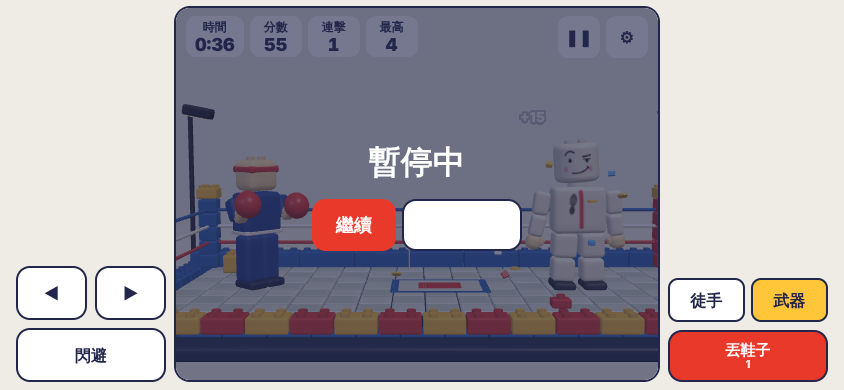
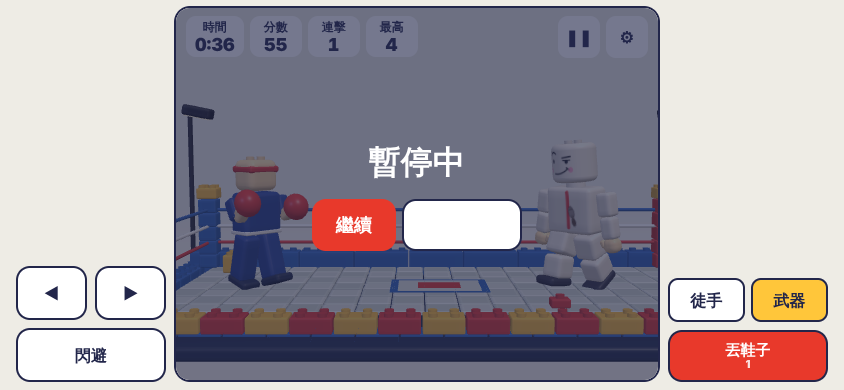
立體肚子可彩繪；對戰時面對面、前後腳站姿；按鈕不可選取文字
Claude-Session: https://claude.ai/code/session_01W9KMAiYuezKnkxaZ7ikoB8

diff --git a/src/game/puppet/Puppet.ts b/src/game/puppet/Puppet.ts
@@ -11,7 +11,7 @@ import { buildAccessory, type AccessorySlot } from './looks/accessories';
 import { DelayBuffer, spring0, stepSpring, type Spring } from './spring';
 
 const R = PUPPET.reactions;
-const CH = ['torsoZ', 'torsoX', 'headX', 'headY', 'headZ', 'shL', 'elL', 'shR', 'elR', 'hipL', 'hipR', 'knL', 'knR'] as const;
+const CH = ['torsoZ', 'torsoX', 'headX', 'headY', 'headZ', 'shL', 'elL', 'shR', 'elR', 'hipL', 'hipR', 'hipLx', 'hipRx', 'knL', 'knR'] as const;
 type Channel = (typeof CH)[number];
 type Pose = Record<Channel, number>;
 
@@ -35,6 +35,12 @@ export class Puppet {
   readonly root = new Group();
   private readonly spinPivot = new Group();
   private readonly squashG = new Group();
+  private readonly yawG = new Group();
+  private yaw = spring0();
+  private yawTarget = 0;
+  private stance = false;
+  private stanceFront: 'L' | 'R' = 'L';
+  private extraPaint: Mesh[] = [];
   readonly meshes = {} as Record<PaintPartId, Mesh>;
   readonly fixed = {} as Record<FixedPartId, Mesh>;
   private readonly joints: Record<string, Group> = {};
@@ -76,9 +82,11 @@ export class Puppet {
     off.position.y = -PUPPET.height / 2;
     this.spinPivot.add(off);
     off.add(this.squashG);
+    // 轉身面向對手（只轉身體，空翻仍在畫面平面上）
+    this.squashG.add(this.yawG);
     const pelvis = new Group();
     pelvis.position.y = SK.pelvisY;
-    this.squashG.add(pelvis);
+    this.yawG.add(pelvis);
     const studMat = plastic(PUPPET.baseColor);
 
     const part = (name: PaintPartId, parent: Object3D, y: number) => {
@@ -167,6 +175,7 @@ export class Puppet {
   private syncAccessories(paint: PaintStore) {
     this.accObjects.forEach((o) => o.removeFromParent());
     this.accObjects = [];
+    this.extraPaint = [];
     for (const slot of ['face', 'hair', 'costume'] as AccessorySlot[]) {
       const id = paint.accessories[slot];
       if (!id) continue;
@@ -178,6 +187,15 @@ export class Puppet {
         });
         target.add(a.object);
         this.accObjects.push(a.object);
+        // 可彩繪的配件（立體肚子）：換成所屬部位的材質，並列入作畫目標
+        a.object.traverse((o) => {
+          const pp = o.userData.paintPart as PaintPartId | undefined;
+          if (pp && (o as Mesh).isMesh) {
+            (o as Mesh).material = this.meshes[pp].material;
+            o.userData.part = pp;
+            this.extraPaint.push(o as Mesh);
+          }
+        });
       }
     }
   }
@@ -221,6 +239,7 @@ export class Puppet {
     this.vx = this.vy = this.lift = 0;
     this.airborne = false;
     this.spin = spring0();
+    this.yaw = spring0(this.yawTarget);
     this.sx = spring0(1);
     this.sy = spring0(1);
     for (const c of CH) this.pose[c] = spring0();
@@ -370,6 +389,7 @@ export class Puppet {
       }
     }
 
+    stepSpring(this.yaw, this.yawTarget, S.spin.k * 0.5, S.spin.d, dt);
     stepSpring(this.sx, 1, S.squash.k, S.squash.d, dt);
     stepSpring(this.sy, 1, S.squash.k, S.squash.d, dt);
     const L = PUPPET.squashLimits;
@@ -407,6 +427,8 @@ export class Puppet {
       elR: 0.05,
       hipL: -0.04,
       hipR: 0.04,
+      hipLx: 0,
+      hipRx: 0,
       knL: 0,
       knR: 0,
     };
@@ -419,6 +441,15 @@ export class Puppet {
     T.elR += lag * 0.5;
     T.hipL += lag * 0.2;
     T.hipR += lag * 0.2;
+    if (this.stance) {
+      const st = PUPPET.stance;
+      const front = this.stanceFront;
+      T[front === 'L' ? 'hipLx' : 'hipRx'] = -st.frontHip;
+      T[front === 'L' ? 'hipRx' : 'hipLx'] = st.backHip;
+      T.knL = st.knee;
+      T.knR = st.knee;
+      T.torsoX += st.lean;
+    }
     if (this.airborne) {
       T.shL = -2.2;
       T.shR = 2.2;
@@ -429,8 +460,8 @@ export class Puppet {
     }
     if (this.downT > 0) {
       T.torsoX = 0.35;
-      T.knL = -0.6;
-      T.knR = -0.6;
+      T.knL = 0.6;
+      T.knR = 0.6;
       T.headX = 0.2;
     }
     if (this.aiPose !== 'idle' && !this.airborne) {
@@ -476,8 +507,9 @@ export class Puppet {
     j.elL.rotation.z = p.elL.v;
     j.shR.rotation.z = p.shR.v;
     j.elR.rotation.z = p.elR.v;
-    j.hipL.rotation.z = p.hipL.v;
-    j.hipR.rotation.z = p.hipR.v;
+    j.hipL.rotation.set(p.hipLx.v, 0, p.hipL.v);
+    j.hipR.rotation.set(p.hipRx.v, 0, p.hipR.v);
+    this.yawG.rotation.y = this.yaw.v;
     j.knL.rotation.x = p.knL.v;
     j.knR.rotation.x = p.knR.v;
     const head = this.meshes.head;
@@ -493,7 +525,17 @@ export class Puppet {
 
   /** 所有可被點選彩繪的部位 mesh。 */
   paintTargets(): Mesh[] {
-    return Object.values(this.meshes);
+    return [...Object.values(this.meshes), ...this.extraPaint];
+  }
+
+  /**
+   * 對戰站姿：身體轉向對手（dir＝對手所在方向），一腳前一腳後。
+   * 彩繪室不開，維持正面站直方便作畫。
+   */
+  setStance(on: boolean, dir: -1 | 1 = -1) {
+    this.stance = on;
+    this.yawTarget = on ? dir * PUPPET.stance.yaw : 0;
+    this.stanceFront = dir < 0 ? 'L' : 'R';
   }
 
   setShadows(on: boolean) {

diff --git a/src/game/puppet/looks/accessories.ts b/src/game/puppet/looks/accessories.ts
@@ -3,6 +3,7 @@ import {
 } from 'three';
 import { plastic, srgb } from '../../three/color';
 import { cachedRoundedBox } from '../../three/geometry';
+import { atlasUV } from '../faces';
 import { DESIGN_SIZES, PART_DEFS, type FixedPartId, type PaintPartId } from '../parts';
 
 /**
@@ -120,9 +121,31 @@ function dome(color: string, h: number) {
   return ball(1, color, 0, HEAD.top - 0.04, -0.02, [0.64, h, 0.6]);
 }
 
-/** 立體肚子：貼在軀幹正面的扁橢圓 */
-function belly(color: string) {
-  return ball(1, color, 0, -0.05, TORSO.front - 0.04, [0.6, 0.6, 0.2]);
+/**
+ * 立體肚子：貼在軀幹正面的扁橢圓。UV 投影到軀幹正面那一格，
+ * 所以肚子會顯示、也能畫上軀幹正面的彩繪（積木人會把它換成軀幹的材質）。
+ */
+export const BELLY = { cx: 0, cy: -0.05, rx: 0.6, ry: 0.6, rz: 0.2 } as const;
+function belly() {
+  const g = geo('bellyPaint', () => {
+    const sg = new SphereGeometry(1, 32, 20);
+    const pos = sg.attributes.position;
+    const uv = sg.attributes.uv;
+    const [w, h] = DESIGN_SIZES.torso;
+    for (let i = 0; i < pos.count; i++) {
+      const x = BELLY.cx + pos.getX(i) * BELLY.rx;
+      const y = BELLY.cy + pos.getY(i) * BELLY.ry;
+      const [u, v] = atlasUV(4, x / w + 0.5, y / h + 0.5);
+      uv.setXY(i, u, v);
+    }
+    return sg;
+  });
+  const m = new Mesh(g, plastic('#FFFFFF'));
+  m.scale.set(BELLY.rx, BELLY.ry, BELLY.rz);
+  m.position.set(BELLY.cx, BELLY.cy, TORSO.front - 0.04);
+  m.castShadow = true;
+  m.userData.paintPart = 'torso';
+  return m;
 }
 
 /** 爪子／腳趾：一排小圓錐 */
@@ -245,7 +268,7 @@ const BUILDERS: Record<AccessoryId, () => Attachment[]> = {
     const tips = (sx: number) => group(...[-0.14, 0, 0.14].map((z, i) => box(0.12, 0.42 - i * 0.04, 0.12, 0.05, i === 1 ? '#FFE680' : Y, sx * 0.05, -0.12, z, [z * 1.5, 0, sx * 0.1])));
     const feet = (['shoeL', 'shoeR'] as const).map((p) => ({ part: p, object: claws('#FB8C00', 3, 0.24, -0.08, 0.6, 0.5, [Math.PI / 2, 0, 0]) }));
     return [
-      { part: 'torso', object: group(belly('#FFE680'), ...tail) },
+      { part: 'torso', object: group(belly(), ...tail) },
       { part: 'upperArmL', object: wing(-1) }, { part: 'upperArmR', object: wing(1) },
       { part: 'foreArmL', object: wing(-1) }, { part: 'foreArmR', object: wing(1) },
       { part: 'handL', object: tips(-1) }, { part: 'handR', object: tips(1) },
@@ -279,7 +302,7 @@ const BUILDERS: Record<AccessoryId, () => Attachment[]> = {
     const hoofHand = () => group(box(0.56, 0.3, 0.58, 0.12, HOOF, 0, -0.12, 0), box(0.04, 0.3, 0.6, 0.01, '#5A2E38', 0, -0.12, 0));
     const hoofFoot = () => group(box(0.8, 0.32, 1.12, 0.12, HOOF, 0, 0.02, 0), box(0.04, 0.33, 0.5, 0.01, '#5A2E38', 0, 0.02, 0.32));
     return [
-      { part: 'torso', object: group(belly('#F8C8D4'), tail) },
+      { part: 'torso', object: group(belly(), tail) },
       { part: 'handL', object: hoofHand() }, { part: 'handR', object: hoofHand() },
       { part: 'shoeL', object: hoofFoot() }, { part: 'shoeR', object: hoofFoot() },
     ];
@@ -303,7 +326,7 @@ const BUILDERS: Record<AccessoryId, () => Attachment[]> = {
     const hand = () => group(box(0.54, 0.52, 0.56, 0.2, G, 0, 0, 0), claws('#FFFFFF', 3, 0.14, -0.3, 0.18, 0.2, [Math.PI * 0.85, 0, 0]));
     const foot = () => group(box(0.8, 0.3, 1.14, 0.12, G, 0, 0.02, 0), claws('#FFFFFF', 3, 0.24, -0.02, 0.62, 0.22, [Math.PI / 2, 0, 0]));
     return [
-      { part: 'torso', object: group(belly('#F7E27A'), ...spikes, tail) },
+      { part: 'torso', object: group(belly(), ...spikes, tail) },
       { part: 'handL', object: hand() }, { part: 'handR', object: hand() },
       { part: 'shoeL', object: foot() }, { part: 'shoeR', object: foot() },
     ];

diff --git a/src/game/puppet/looks/presets.ts b/src/game/puppet/looks/presets.ts
@@ -329,6 +329,20 @@ const crease: Draw = (c, w, h) => {
   c.stroke();
 };
 
+/** 肚子顏色畫在軀幹正面（立體肚子會顯示這一塊），座標對齊 BELLY */
+const bellyPaint = (color: string, lines?: string): Draw => (c, w, h) => {
+  ellipse(c, w / 2, h / 2 + 0.05, 0.62, 0.62, color);
+  if (lines) {
+    stroke(c, 0.03, lines);
+    c.beginPath();
+    for (let i = 0; i < 4; i++) {
+      const y = h / 2 - 0.3 + i * 0.2;
+      c.moveTo(w / 2 - 0.3, y);
+      c.lineTo(w / 2 + 0.3, y);
+    }
+    c.stroke();
+  }
+};
 const hoof = (color: string): Draw => fillBottom(color, 0.22);
 
 const dressTop = (trim: string): Draw => (c, w, h) => {
@@ -375,7 +389,7 @@ export const LOOKS: LookPreset[] = [
   { id: 'slick', kind: 'hair', label: '西裝頭', paint: { head: hairPaint(INK, { sides: 0.35, back: 0.5, front: sidePart(INK) }) }, accessory: 'slick' },
   { id: 'buzz', kind: 'hair', label: '平頭', paint: { head: { [F.PY]: buzz('#2B2B33'), [F.PX]: all(fillTop('#6E6E76', 0.35)), [F.NX]: fillTop('#6E6E76', 0.35), [F.NZ]: fillTop('#6E6E76', 0.4), [F.PZ]: fillTop('#6E6E76', 0.2) } }, accessory: 'buzz' },
   // 服裝
-  { id: 'chickenSuit', kind: 'costume', label: '尖叫雞', paint: body({ torso: CHICK, arms: CHICK, legs: CHICK }), accessory: 'chickenSuit' },
+  { id: 'chickenSuit', kind: 'costume', label: '尖叫雞', paint: body({ torso: CHICK, arms: CHICK, legs: CHICK }, bellyPaint('#FFE680')), accessory: 'chickenSuit' },
   {
     id: 'suit', kind: 'costume', label: '西裝',
     paint: body({ torso: NAVY, arms: NAVY, legs: NAVY }, suitFront, {
@@ -398,14 +412,14 @@ export const LOOKS: LookPreset[] = [
   },
   {
     id: 'pigBody', kind: 'costume', label: '豬身體',
-    paint: body({ torso: PIG, arms: PIG, legs: PIG }, undefined, {
+    paint: body({ torso: PIG, arms: PIG, legs: PIG }, bellyPaint('#F8C8D4'), {
       foreArmL: { [F.PZ]: all(fill(PIG), hoof('#8E5A66')) }, foreArmR: { [F.PZ]: all(fill(PIG), hoof('#8E5A66')) },
       shinL: { [F.PZ]: all(fill(PIG), hoof('#8E5A66')), [F.PX]: all(fill(PIG), hoof('#8E5A66')), [F.NX]: all(fill(PIG), hoof('#8E5A66')) },
       shinR: { [F.PZ]: all(fill(PIG), hoof('#8E5A66')), [F.PX]: all(fill(PIG), hoof('#8E5A66')), [F.NX]: all(fill(PIG), hoof('#8E5A66')) },
     }),
     accessory: 'pigBody',
   },
-  { id: 'dinoSuit', kind: 'costume', label: '恐龍裝', paint: body({ torso: DINO, arms: DINO, legs: DINO }), accessory: 'dinoSuit' },
+  { id: 'dinoSuit', kind: 'costume', label: '恐龍裝', paint: body({ torso: DINO, arms: DINO, legs: DINO }, bellyPaint('#F7E27A', '#D9B93A')), accessory: 'dinoSuit' },
 ];
 
 export const LOOK_KINDS: { kind: LookKind; label: string }[] = [

diff --git a/tests/e2e/flow.spec.ts b/tests/e2e/flow.spec.ts
@@ -154,3 +154,17 @@ test('髮型、服裝範例：3D 配件可復原，進擂台也穿著', async ({
   await expect.poll(() => page.evaluate(() => (window as unknown as { __bt: { battle?: { puppet: { accessoryCount: number } } } }).__bt.battle?.puppet.accessoryCount ?? 0)).toBe(2);
   expect(errors).toEqual([]);
 });
+
+test('立體肚子可以作畫（畫進軀幹正面）', async ({ page }) => {
+  await fillWanted(page);
+  const b = bt(page);
+  await page.getByRole('radio', { name: '服裝' }).click();
+  await page.getByRole('button', { name: '套用範例：恐龍裝' }).click();
+  await page.getByRole('button', { name: '紫', exact: true }).click();
+  const purple = () => page.evaluate(() => (window as unknown as { __bt: { paint: { colorPixels(p: string, f: number, h: string): number } } }).__bt.paint.colorPixels('torso', 4, '#8E44AD'));
+  expect(await purple()).toBe(0);
+  // 軀幹正面中央被立體肚子蓋住，點下去會打到肚子
+  await drag(page, (await b.point('torso', 4, 0.4, 0.5))!, (await b.point('torso', 4, 0.6, 0.55))!);
+  expect(await purple()).toBeGreaterThan(100);
+  await expect(page.getByRole('status').filter({ hasText: '正在畫：軀幹' })).toBeVisible();
+});

diff --git a/src/game/puppet/paintSurface.ts b/src/game/puppet/paintSurface.ts
@@ -254,6 +254,16 @@ export class PaintStore {
     return `#${hx(r)}${hx(g)}${hx(b)}`;
   }
 
+  /** 測試用：計算某部位某面接近指定顏色的像素數。 */
+  colorPixels(part: PaintPartId, face: Face, hex: string): number {
+    const o = cellOrigin(face);
+    const d = this.surfaces[part].ctx.getImageData(o.x, o.y, DEFAULT_LAYOUT.cell, DEFAULT_LAYOUT.cell).data;
+    const t = hexToRgb(hex);
+    let n = 0;
+    for (let i = 0; i < d.length; i += 4) if (Math.abs(d[i] - t[0]) + Math.abs(d[i + 1] - t[1]) + Math.abs(d[i + 2] - t[2]) < 40) n++;
+    return n;
+  }
+
   /** 測試用：計算某部位不是底色的像素數。 */
   paintedPixels(part: PaintPartId, face?: Face): number {
     const s = this.surfaces[part];

diff --git a/src/game/battle/BattleController.ts b/src/game/battle/BattleController.ts
@@ -126,6 +126,7 @@ export class BattleController {
     this.ledger = new ScoreLedger();
     this.clock = new RoundClock(this.roundLength);
     this.player.reset();
+    this.puppet.setStance(true, -1);
     this.puppet.reset(GAME.puppetStartX);
     this.ai.reset();
     this.shoes.clear();
@@ -250,6 +251,8 @@ export class BattleController {
 
     // 木偶 AI（簡單模式）
     const side = (Math.sign(pl.x - p.x) || -1) as -1 | 1;
+    // 面對面：木偶轉身朝向玩家，擺出前後腳站姿
+    if (!p.airborne) p.setStance(true, side);
     for (const e of this.ai.update(dt, this.live && !p.invulnerable && !p.airborne && !p.isDown, side)) {
       if (e.type === 'windup') {
         p.setAiPose('windup', e.side);

diff --git a/src/game/player/Player.ts b/src/game/player/Player.ts
@@ -156,8 +156,11 @@ export class Player {
       A.elL = A.elR = -0.6;
     }
     const step = Math.abs(this.vx) > 0.5 && this.dodge <= 0 ? Math.sin(this.bob * 14) * 0.45 : 0;
-    L.legL.rotation.x = step;
-    L.legR.rotation.x = -step;
+    // 格鬥站姿：靠近對手的腳在前、另一腳在後（走路時改成擺腿）
+    const frontR = this.facing > 0;
+    const st = step === 0 ? PLAYER.stance : { front: 0, back: 0 };
+    L.legL.rotation.x = step + (frontR ? st.back : -st.front);
+    L.legR.rotation.x = -step + (frontR ? -st.front : st.back);
     L.shL.rotation.set(A.shL[0], 0, A.shL[1]);
     L.shR.rotation.set(A.shR[0], 0, A.shR[1]);
     L.elL.rotation.x = A.elL;

diff --git a/src/styles.css b/src/styles.css
@@ -27,7 +27,8 @@ body {
   -webkit-text-size-adjust: 100%;
 }
 button, input, textarea { font: inherit; color: inherit; }
-button { cursor: pointer; }
+button { cursor: pointer; -webkit-user-select: none; user-select: none; -webkit-touch-callout: none; }
+.tools, .turn-row, .controls, .hud, .status { -webkit-user-select: none; user-select: none; }
 :focus-visible { outline: 3px solid var(--sun); outline-offset: 2px; }
 
 .app { min-height: 100dvh; }

diff --git a/src/config/moves.config.ts b/src/config/moves.config.ts
@@ -96,6 +96,8 @@ export const PLAYER = {
   hitStun: 0.4,
   /** 出招預約（秒）：前一招收招前按下的招式會在收招後立刻出 */
   inputBuffer: 0.25,
+  /** 格鬥站姿：前腳往前、後腳往後（弧度） */
+  stance: { front: 0.3, back: 0.25 },
 } as const;
 
 /** 投射物碰撞：木偶受擊框額外寬度、移除範圍 */

diff --git a/src/config/puppet.config.ts b/src/config/puppet.config.ts
@@ -59,6 +59,9 @@ export const PUPPET = {
     reducedMotionScale: 0.5,
   },
 
+  /** 對戰站姿：轉身角度（弧度）、前腳／後腳、膝蓋、身體前傾 */
+  stance: { yaw: 0.85, frontHip: 0.35, backHip: 0.3, knee: 0.22, lean: 0.06 },
+
   /** 彩繪室：完成動畫長度（秒） */
   finishAnimTime: 2.4,
 } as const;
